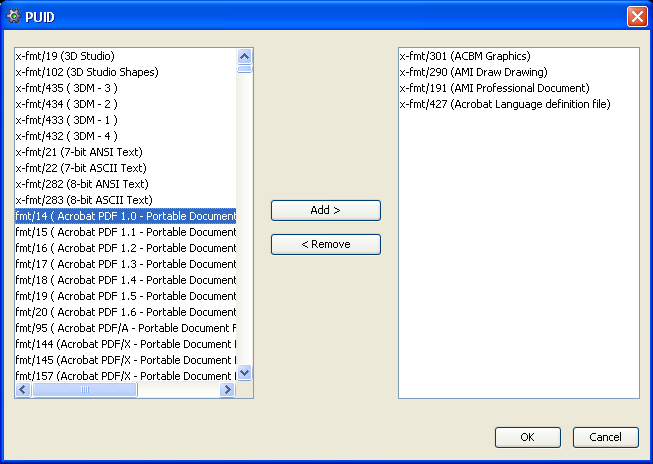
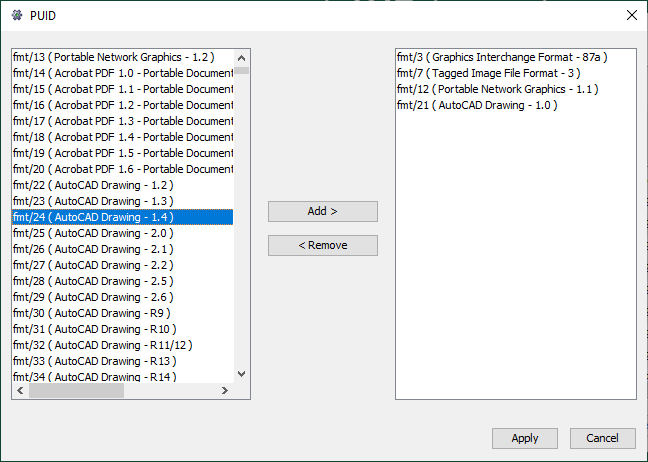
New screenshots and a few corrections in the droid help

Changed region(s): [[0.0, 0.0, 1.0, 1.0]]

diff --git a/droid-help/src/main/resources/Web pages/Update file format signatures.html b/droid-help/src/main/resources/Web pages/Update file format signatures.html
@@ -74,20 +74,6 @@
       Archives. &nbsp;To manually update your file format signatures, select the <b><font size=
       "4">Tools / Check for signature updates...</font></b> menu item. &nbsp;
     </p>
-    <p align="center">
-       <img src="../Images/Install signature.png">
-    </p>
-    <p>
-       Either enter the file name and path of the signature file you want to install, or press the
-      <b><font style=" background-color: #c0c0c0;" size="4"> &nbsp;Browse... &nbsp;</font></b>
-      button to bring up a file selection dialog. &nbsp;If you check the "Use this signature file
-      as default", it will become the default for new profiles. &nbsp;If not, the signature will be
-      available to select in the preferences should you want to use it at some point in the future,
-      but will not be used by default. &nbsp;When you have selected the file to install, press the
-      <b><font style=" background-color: #c0c0c0;" size="4"> &nbsp;Install &nbsp;&nbsp;</font></b>
-      button, or <b><font style=" background-color: #c0c0c0;" size="4"> &nbsp;Cancel
-      &nbsp;</font></b> to exit the dialog making no changes.
-    </p>
     <p>
        It is also possible for DROID to automatically check for and update its signatures on a
       regular schedule. &nbsp;This can be configured in the <a href=
@@ -96,11 +82,27 @@
     <p>
        If you have a <a href="Update file format signatures.html#BinarySigs">binary signature</a>
       file locally that you want to use, you can install this file in DROID using the <b><font
-      size="4">Tools / Install signature file...</font></b> menu item. &nbsp;This will bring up a
-      file open dialog from which you can select the signature file that you want DROID to use.
-      &nbsp;Currently this feature cannot be used to install <a href=
-      "Update file format signatures.html#ContainerSigs">container signatures</a>, only binary
-      signature files.
+            size="4">Tools / Install signature file...</font></b> menu item. This will bring up
+      a dialog as shown below</p>
+    <p align="center">
+      <img src="../Images/Install signature.png">
+    </p>
+    <p>
+      Either enter the file name and path of the signature file you want to install, or press the
+      <b><font style=" background-color: #c0c0c0;" size="4"> &nbsp;Browse... &nbsp;</font></b>
+      button to bring up a file selection dialog, from which you can select the signature file
+      that you want DROID to use. If you check the "Use this signature file
+      as default", it will become the default for new profiles. &nbsp;If not, the signature will be
+      available to select in the preferences should you want to use it at some point in the future,
+      but will not be used by default. &nbsp;When you have selected the file to install, press the
+      <b><font style=" background-color: #c0c0c0;" size="4"> &nbsp;Install &nbsp;&nbsp;</font></b>
+      button, or <b><font style=" background-color: #c0c0c0;" size="4"> &nbsp;Cancel
+      &nbsp;</font></b> to exit the dialog making no changes.
+    </p>
+
+    <p>Please note: Currently this feature is only available for <a href="Update file format signatures.html#BinarySigs">
+      binary signature</a> files. It cannot be used to install <a href="Update file format signatures.html#ContainerSigs">
+      container signatures</a>.
     </p>
     <p>
        Alternatively, you can manually copy a binary or container signature file into your droid

diff --git a/droid-help/src/main/resources/Web pages/Exporting profiles.html b/droid-help/src/main/resources/Web pages/Exporting profiles.html
@@ -88,13 +88,14 @@
       also be filtered. &nbsp;Each profile can have different filters defined and enabled.
     </p>
     <p>
-       You can also select whether the export should produce one row per file, or one row per
-      format. &nbsp;When exporting one row per file, each row in the CSV file will represent a
-      single file, folder or archival file profiled with DROID. &nbsp;If exporting one row per
-      format, each row in the CSV file will be a single format identificaiton made by DROID.
-      &nbsp;Since a file can be identified as being more than one possible format, this option will
-      produce CSV files with multiple rows for the same file (but with different identifications
-      for it).
+      You can choose which columns to be included in the export as well as whether the values
+      should be enclosed in quotes when exporting. You can also select whether the export
+      should produce one row per file, or one row per format. &nbsp;When exporting one row per
+      file, each row in the CSV file will represent a single file, folder or archival file
+      profiled with DROID. &nbsp;If exporting one row per format, each row in the CSV file will be
+      a single format identificaiton made by DROID.&nbsp;Since a file can be identified as being more
+      than one possible format, this option will produce CSV files with multiple rows for the
+      same file (but with different identifications for it).
     </p>
     <p>
         The characters of the export will be encoded as UTF-8 by default. If you need to set this
@@ -139,10 +140,10 @@
       resource. &nbsp;
     </p>
     <p>
-       Please note that file paths are platform dependent (they are different on windows and unix).
+       Please note that file paths are platform dependent (they are different on Windows and unix).
       &nbsp;DROID will write out file paths for the system on which it is currently running.
       &nbsp;This means that if you profile files on a unix machine, then export the profiles on a
-      windows machine, the file paths will be written out as if they were windows file paths, and
+      Windows machine, the file paths will be written out as if they were Windows file paths, and
       vice versa.
     </p>
     <h3>

diff --git a/droid-help/src/main/resources/Web pages/FAQ.html b/droid-help/src/main/resources/Web pages/FAQ.html
@@ -125,7 +125,7 @@
        <a id="JavaVersion" name="JavaVersion">What</a> version of Java do I need?
     </h3>
     <p>
-      If you are on windows, a package is provided which also includes JRE with the droid binary. To use the version without Java bundled, you will need to have Java 8 to 12 installed on your machine in order to run DROID.
+      If you are on Windows, a package is provided which also includes JRE with the droid binary. To use the version without Java bundled, you will need to have Java 8 to 12 installed on your machine in order to run DROID.
       The latest JAVA updates can be obtained from <a href=
       "http://www.oracle.com/technetwork/java/index.html">oracle.com/technetwork/java/index.html</a>.
     </p>
@@ -145,7 +145,7 @@
     </h3>
     <p>
        DROID can only recognise files for which there is a defined signature or known extension.
-      &nbsp;Signatures are regularly updated by the National Archives, and DROID can download them
+      &nbsp;Signatures are regularly updated by The National Archives, and DROID can download them
       to improve the range of formats it can identify. &nbsp;In some cases, an existing signature
       may fail to recognise a file because the file is unusual in some way. &nbsp;If you know of
       such files, please email <i><a href="mailto:pronom@nationalarchives.gov.uk">pronom@nationalarchives.gov.uk</a></i> so we can develop better

diff --git a/droid-help/src/main/resources/Web pages/Information collected by DROID.html b/droid-help/src/main/resources/Web pages/Information collected by DROID.html
@@ -598,14 +598,14 @@
        The format name is simply a human-readable name given to a file format or family of file
       formats, for example, &#39;Microsoft Word&#39;. The format version is the version of the format, for
       example &#39;97-2003&#39;. The PUID is a globally unique, persistent identifier for a file format and
-      version, assigned by the National Archives through its <a href=
+      version, assigned by The National Archives through its <a href=
       "http://www.nationalarchives.gov.uk/pronom">PRONOM file format registry</a><img src=
       "../Images/Icon_External_Link.png">. For example, the PUID for the &#39;Microsoft Word 97-2003&#39;
       file format is &#39;fmt/40&#39;.
     </p>
     <p>
        PUIDs are guaranteed never to change, although new PUIDs may be defined. Clicking on a PUID
-      in DROID will take you to the relevant page for that file format on the National Archives
+      in DROID will take you to the relevant page for that file format on The National Archives
       PRONOM website.&nbsp; The website will also help you with some file format names that you may
       be unfamiliar with. In particular, you may see files identified as 'OLE2 Compound Document
       Format' (PUID fmt/111) which you can interpret as 'Microsoft Office generic'&nbsp;. In these

diff --git a/droid-help/src/main/resources/Web pages/Whats New.html b/droid-help/src/main/resources/Web pages/Whats New.html
@@ -65,11 +65,14 @@
       </tr>
     </table>
     <p>
-      Droid 6.6 offers the following new features:
+      Droid 6.6.0 offers the following new features:
     </p>
     <ul>
       <li>Internal API for making droid easier to use as a dependency</li>
-      <li>bundle jre (Java 11) with windows</li>
+      <li>Updated bundled jre to Java 11</li>
+      <li>Improvement to ?? signature pattern</li>
+      <li>Fix for inverted syntax when the bytes or ranges are inverted</li>
+      <li>Improved consistency across profile and no profile mode</li>
     </ul>
     <p>
       For a full list of the included changes with this version, please check the <a href="http://www.github.com/digital-preservation/droid/releases/tag/droid-6.6/">changelog</a>

diff --git a/droid-help/src/main/resources/Web pages/License.html b/droid-help/src/main/resources/Web pages/License.html
@@ -74,7 +74,7 @@
        <a name="License" id="License">DROID license</a>
     </h1>
     <p>
-       Copyright (c) 2009-2020, The National Archives<br>
+       Copyright (c) 2009-2023, The National Archives<br>
        All rights reserved.
     </p>
     <p>
